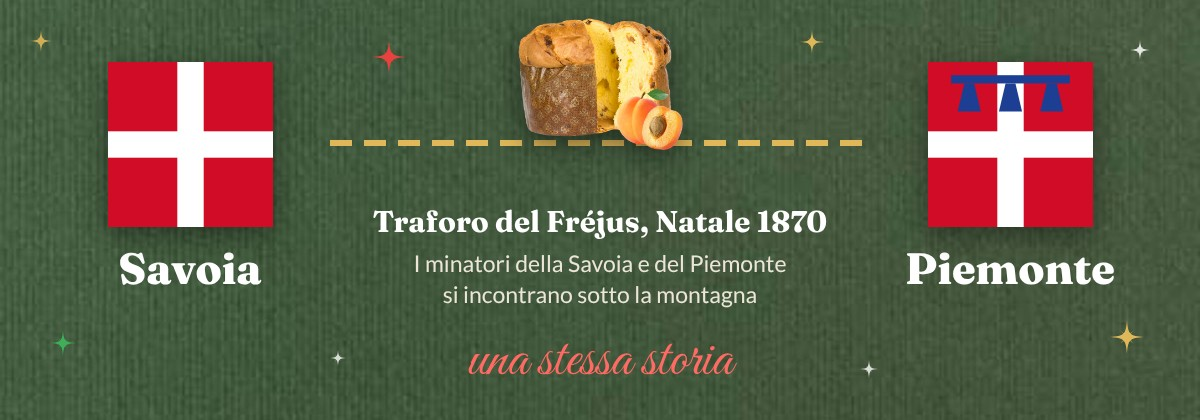
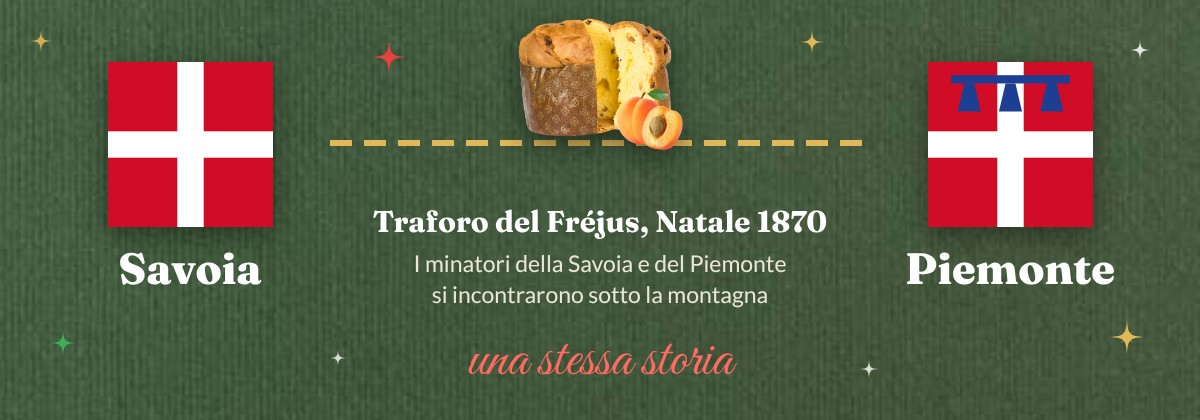
Récit du Fréjus au passé (texte et visuels)
Claude-Session: https://claude.ai/code/session_01TzX3QZxQqGLbcH6vzUSX9p

Changed region(s): [[0.3392, 0.681, 0.6475, 0.7429]]

diff --git a/campagne/panettoni-vilma/presentation/source.html b/campagne/panettoni-vilma/presentation/source.html
@@ -160,7 +160,7 @@ footer { color: var(--muted); font-size: .88rem; border-top: 1px solid var(--lin
     <div class="chiffre"><b>165</b><span>commerces suivis en tout ; pour ceux sans e-mail, nous essaierons de trouver une adresse, sans garantie</span></div>
     <div class="chiffre"><b>81</b><span>de ces 95 commerces n'affichent aucun panettone en vente</span></div>
   </div>
-  <figure><div class="cadre"><img src="{{IMG:lien.jpg}}" alt="Savoie et Piémont, reliés par le tunnel du Fréjus à Noël 1870 : une même histoire"></div><figcaption>Le visuel du premier e-mail. Le chantier du Fréjus est dirigé par un ingénieur savoyard, Germain Sommeiller, né à Saint-Jeoire. La nuit de Noël 1870, après treize ans de travaux, les mineurs partis de Modane et de Bardonecchia se rejoignent sous la montagne, à quelques centimètres près. Le tunnel ouvre le 17 septembre 1871. On raconte que les Piémontais ont fêté la percée avec des panettoni : depuis, le panettone a aussi une histoire savoyarde.</figcaption></figure>
+  <figure><div class="cadre"><img src="{{IMG:lien.jpg}}" alt="Savoie et Piémont, reliés par le tunnel du Fréjus à Noël 1870 : une même histoire"></div><figcaption>Le visuel du premier e-mail. Le chantier du Fréjus a été dirigé par un ingénieur savoyard, Germain Sommeiller, né à Saint-Jeoire. La nuit de Noël 1870, après treize ans de travaux, les mineurs partis de Modane et de Bardonecchia se sont rejoints sous la montagne, à quelques centimètres près. Le tunnel a ouvert le 17 septembre 1871. On raconte que les Piémontais ont fêté la percée avec des panettoni : depuis, le panettone a aussi une histoire savoyarde.</figcaption></figure>
 </section>
 
 <section class="saut">

diff --git a/campagne/panettoni-vilma/presentation/source-it.html b/campagne/panettoni-vilma/presentation/source-it.html
@@ -160,7 +160,7 @@ footer { color: var(--muted); font-size: .88rem; border-top: 1px solid var(--lin
     <div class="chiffre"><b>165</b><span>negozi seguiti in tutto; per quelli senza e-mail proveremo a trovare un indirizzo, senza garanzia</span></div>
     <div class="chiffre"><b>81</b><span>di questi 95 negozi non hanno panettoni in vendita, per quanto ho visto</span></div>
   </div>
-  <figure><div class="cadre"><img src="{{IMG:lien-it.jpg}}" alt="Savoia e Piemonte, unite dal traforo del Fréjus a Natale 1870: una stessa storia"></div><figcaption>Il visuale della prima e-mail. Il cantiere del Fréjus è diretto da un ingegnere savoiardo, Germain Sommeiller, nato a Saint-Jeoire. La notte di Natale del 1870, dopo tredici anni di lavori, i minatori partiti da Modane e da Bardonecchia si incontrano sotto la montagna, con pochi centimetri di scarto. Il traforo apre il 17 settembre 1871. Si racconta che i piemontesi abbiano festeggiato con dei panettoni: da allora il panettone ha anche una storia savoiarda.</figcaption></figure>
+  <figure><div class="cadre"><img src="{{IMG:lien-it.jpg}}" alt="Savoia e Piemonte, unite dal traforo del Fréjus a Natale 1870: una stessa storia"></div><figcaption>Il visuale della prima e-mail. Il cantiere del Fréjus fu diretto da un ingegnere savoiardo, Germain Sommeiller, nato a Saint-Jeoire. La notte di Natale del 1870, dopo tredici anni di lavori, i minatori partiti da Modane e da Bardonecchia si incontrarono sotto la montagna, con pochi centimetri di scarto. Il traforo aprì il 17 settembre 1871. Si racconta che i piemontesi festeggiarono con dei panettoni: da allora il panettone ha anche una storia savoiarda.</figcaption></figure>
 </section>
 
 <section class="saut">

diff --git a/campagne/panettoni-vilma/visuels/source/lien-savoie-piemont-it.html b/campagne/panettoni-vilma/visuels/source/lien-savoie-piemont-it.html
@@ -25,7 +25,7 @@ body { margin:0; }
   </div>
   <div class="route"></div>
   <div class="milieu"><img src="../produits/cuboli.png" alt=""></div>
-  <div class="titre"><div class="t">Traforo del Fréjus, Natale 1870</div><div class="d">I minatori della Savoia e del Piemonte<br>si incontrano sotto la montagna</div></div>
+  <div class="titre"><div class="t">Traforo del Fréjus, Natale 1870</div><div class="d">I minatori della Savoia e del Piemonte<br>si incontrarono sotto la montagna</div></div>
   <div class="pole d">
     <!-- Drapeau du Piémont : croix de Savoie et lambel bleu -->
     <svg viewBox="0 0 100 100"><rect width="100" height="100" fill="#d00c27"/><rect x="42" y="0" width="16" height="100" fill="#fff"/><rect x="0" y="42" width="100" height="16" fill="#fff"/><rect x="14" y="8" width="72" height="5" fill="#1c3f94"/><polygon points="22,13 28,13 32,30 18,30" fill="#1c3f94"/><polygon points="47,13 53,13 57,30 43,30" fill="#1c3f94"/><polygon points="72,13 78,13 82,30 68,30" fill="#1c3f94"/></svg>

diff --git a/campagne/panettoni-vilma/visuels/source/lien-savoie-piemont.html b/campagne/panettoni-vilma/visuels/source/lien-savoie-piemont.html
@@ -25,7 +25,7 @@ body { margin:0; }
   </div>
   <div class="route"></div>
   <div class="milieu"><img src="../produits/cuboli.png" alt=""></div>
-  <div class="titre"><div class="t">Tunnel du Fréjus, Noël 1870</div><div class="d">Les mineurs de Savoie et du Piémont<br>se rejoignent sous la montagne</div></div>
+  <div class="titre"><div class="t">Tunnel du Fréjus, Noël 1870</div><div class="d">Les mineurs de Savoie et du Piémont<br>se sont rejoints sous la montagne</div></div>
   <div class="pole d">
     <!-- Drapeau du Piémont : croix de Savoie et lambel bleu -->
     <svg viewBox="0 0 100 100"><rect width="100" height="100" fill="#d00c27"/><rect x="42" y="0" width="16" height="100" fill="#fff"/><rect x="0" y="42" width="100" height="16" fill="#fff"/><rect x="14" y="8" width="72" height="5" fill="#1c3f94"/><polygon points="22,13 28,13 32,30 18,30" fill="#1c3f94"/><polygon points="47,13 53,13 57,30 43,30" fill="#1c3f94"/><polygon points="72,13 78,13 82,30 68,30" fill="#1c3f94"/></svg>

diff --git a/campagne/panettoni-vilma/outils/fabrique_modeles.py b/campagne/panettoni-vilma/outils/fabrique_modeles.py
@@ -103,7 +103,7 @@ def atouts():
             f'cellpadding="0" cellspacing="0" border="0"><tr>{td}</tr></table></td></tr>')
 
 
-FREJUS = ("Le chantier du Fréjus est dirigé par un ingénieur savoyard, Germain Sommeiller, né à Saint-Jeoire. La nuit de Noël 1870, après treize ans de travaux, les mineurs partis de Modane et de Bardonecchia se rejoignent sous la montagne, à quelques centimètres près. Le tunnel ouvre le 17 septembre 1871. On raconte que les Piémontais ont fêté la percée avec des panettoni : depuis, le panettone a aussi une histoire savoyarde.")
+FREJUS = ("Le chantier du Fréjus a été dirigé par un ingénieur savoyard, Germain Sommeiller, né à Saint-Jeoire. La nuit de Noël 1870, après treize ans de travaux, les mineurs partis de Modane et de Bardonecchia se sont rejoints sous la montagne, à quelques centimètres près. Le tunnel a ouvert le 17 septembre 1871. On raconte que les Piémontais ont fêté la percée avec des panettoni : depuis, le panettone a aussi une histoire savoyarde.")
 
 
 def lien_savoie_piemont():

diff --git a/campagne/panettoni-vilma/mails.md b/campagne/panettoni-vilma/mails.md
@@ -126,7 +126,7 @@ et préparons le repas de clôture avec des traiteurs partenaires de Savoie et d
 Elio, maison artisanale de Grand-Villars (Villar-Perosa, Piémont), dont nous aimerions vous faire goûter les panettoni.
 
 [Visuel] drapeau de Savoie · tunnel du Fréjus, Noël 1870 · drapeau du Piémont · « une même histoire »
-Le chantier du Fréjus est dirigé par un ingénieur savoyard, Germain Sommeiller, né à Saint-Jeoire. La nuit de Noël 1870, après treize ans de travaux, les mineurs partis de Modane et de Bardonecchia se rejoignent sous la montagne, à quelques centimètres près. Le tunnel ouvre le 17 septembre 1871. On raconte que les Piémontais ont fêté la percée avec des panettoni : depuis, le panettone a aussi une histoire savoyarde.
+Le chantier du Fréjus a été dirigé par un ingénieur savoyard, Germain Sommeiller, né à Saint-Jeoire. La nuit de Noël 1870, après treize ans de travaux, les mineurs partis de Modane et de Bardonecchia se sont rejoints sous la montagne, à quelques centimètres près. Le tunnel a ouvert le 17 septembre 1871. On raconte que les Piémontais ont fêté la percée avec des panettoni : depuis, le panettone a aussi une histoire savoyarde.
 
 [Trois vignettes] Le Cubolì, à l'abricot, sans fruits confits · Sans lactose, la nouveauté 2026 ·
 Échantillons, pour goûter avant de commander
